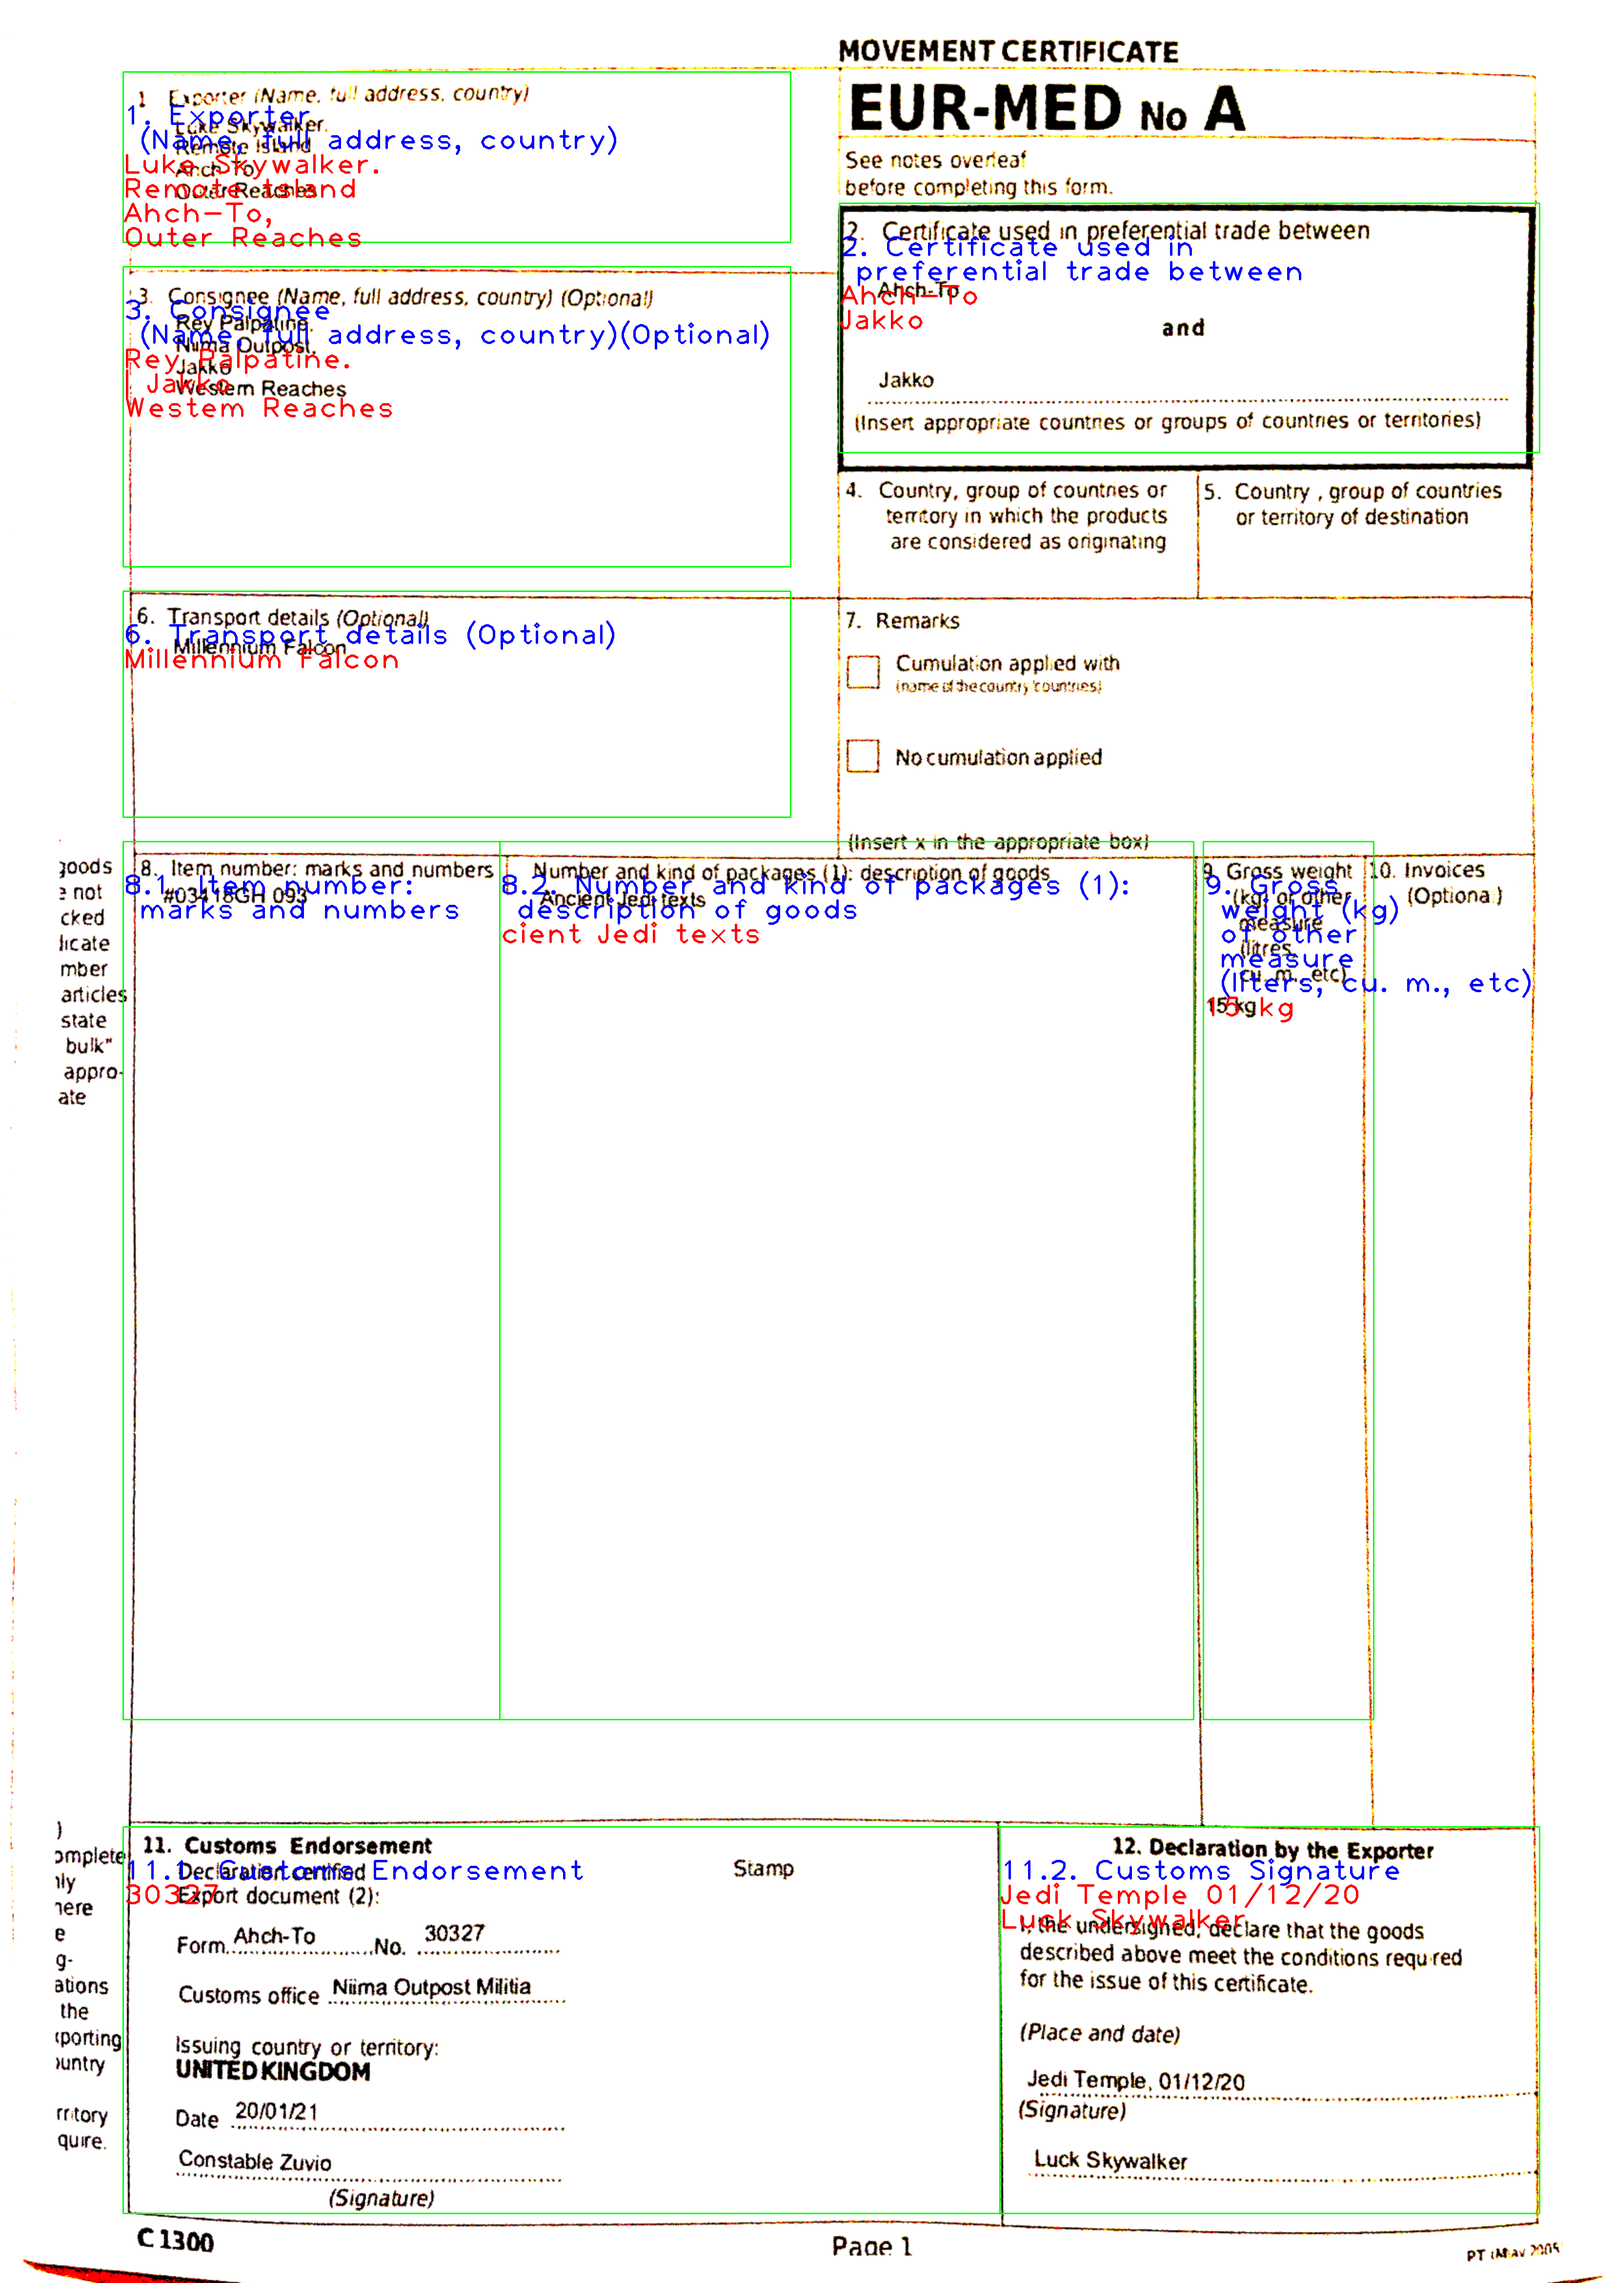
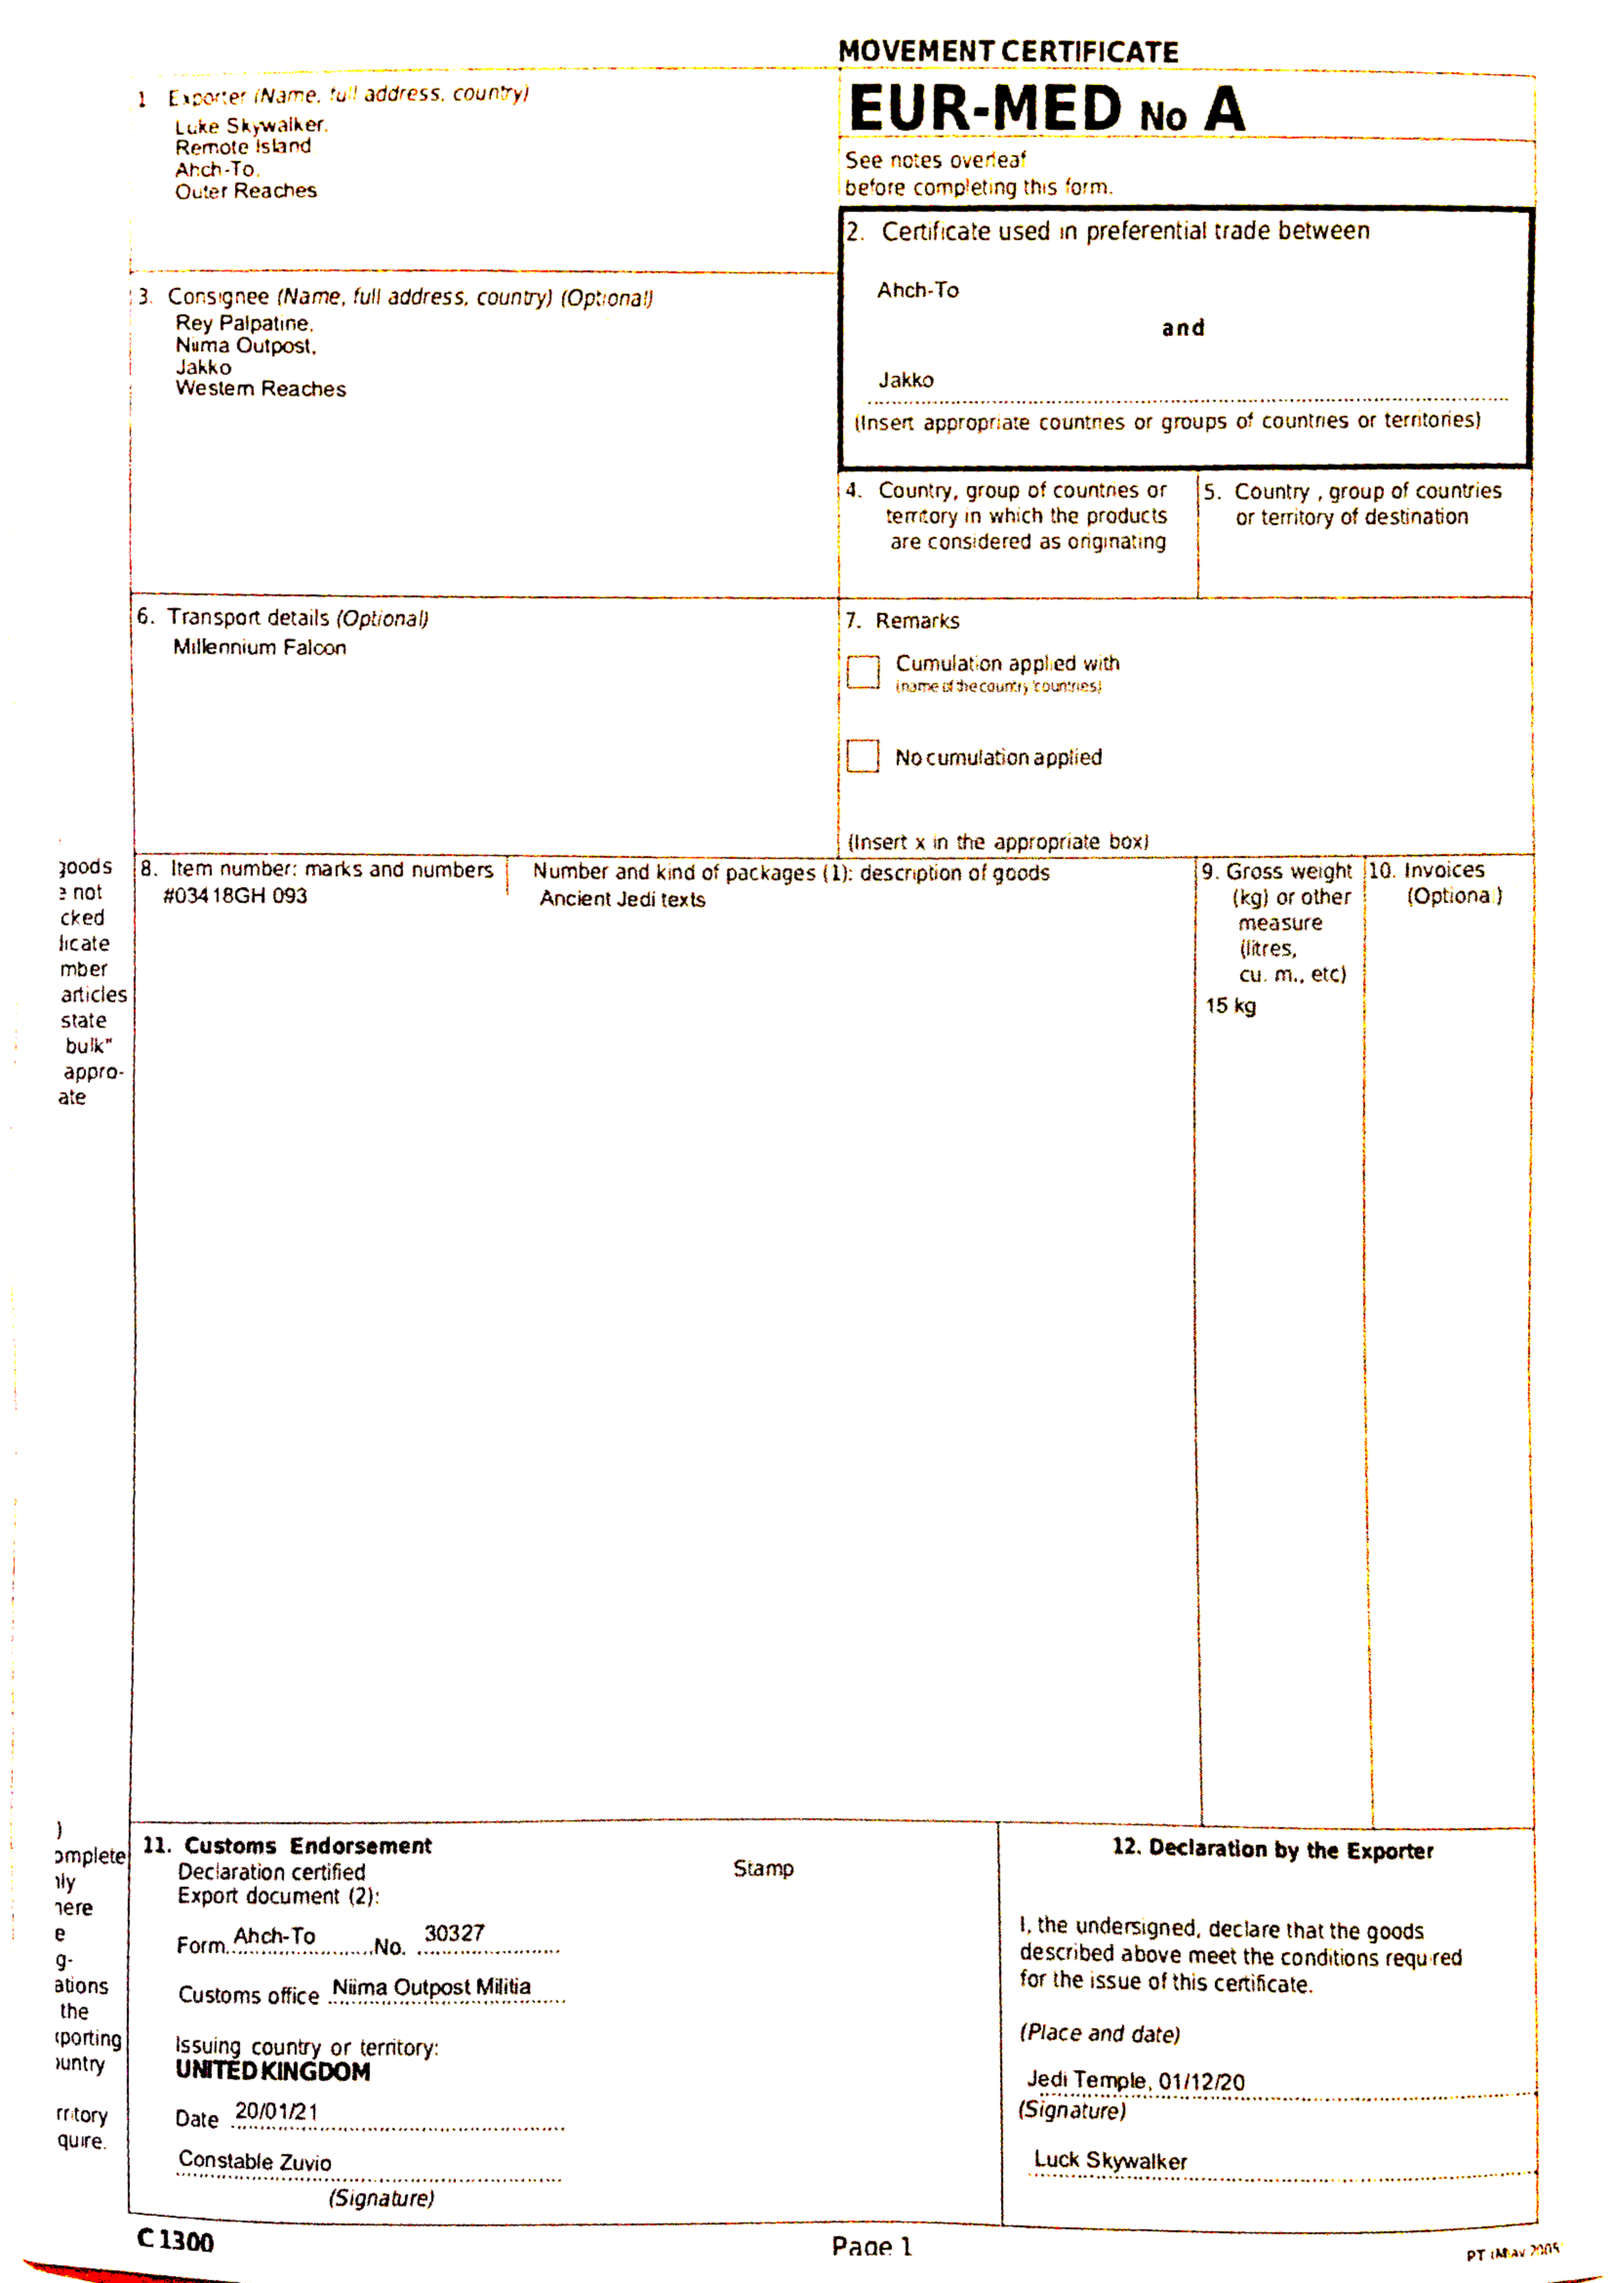
Saving output images

diff --git a/ocr_form.py b/ocr_form.py
@@ -127,13 +127,11 @@ for (idx, result) in enumerate(results.values()):
 
     # draw a bounding box around the text
     cv2.rectangle(ocred, (x, y), (x + w, y + h), (0, 255, 0), 2)
-    cv2.rectangle(aligned, (x, y), (x + w, y + h), (0, 255, 0), 2)
     
     startY = y + 65
     for j, line in enumerate(headings[idx].split('\n')):
     	startY = y + ((j+2) * 50) + 10
     	cv2.putText(ocred, line, (x, startY), cv2.FONT_HERSHEY_PLAIN, 4, (255, 0, 0), 3)
-    	cv2.putText(aligned, line, (x, startY), cv2.FONT_HERSHEY_PLAIN, 4, (255, 0, 0), 3)
     
     # calculate accuracy
     field_acc[idx], doc_acc, ocr_text = ocr_acc(ground_field, text.split("\n"), doc_acc)
@@ -144,8 +142,6 @@ for (idx, result) in enumerate(results.values()):
         # draw the line on the output image
         startY = y + ((j+i+3) * 50) + 10
         cv2.putText(ocred, line, (x, startY),
-            cv2.FONT_HERSHEY_PLAIN, 4, (0, 0, 255), 3)
-        cv2.putText(aligned, line, (x, startY),
             cv2.FONT_HERSHEY_PLAIN, 4, (0, 0, 255), 3)
 
 print(f'Field Accuracy: {field_acc.mean()}')
